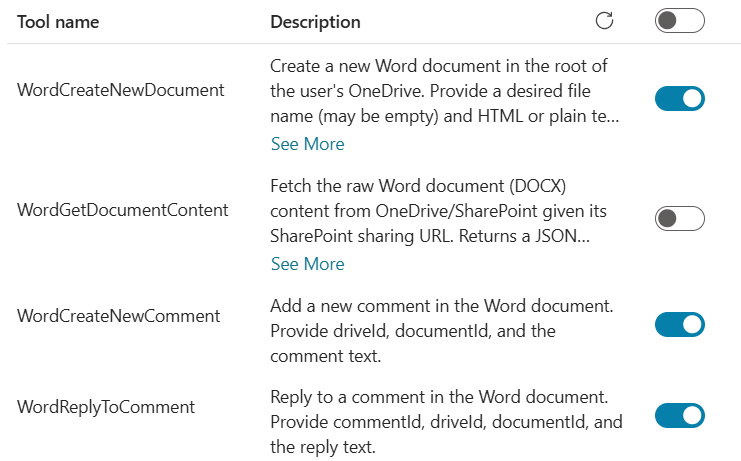
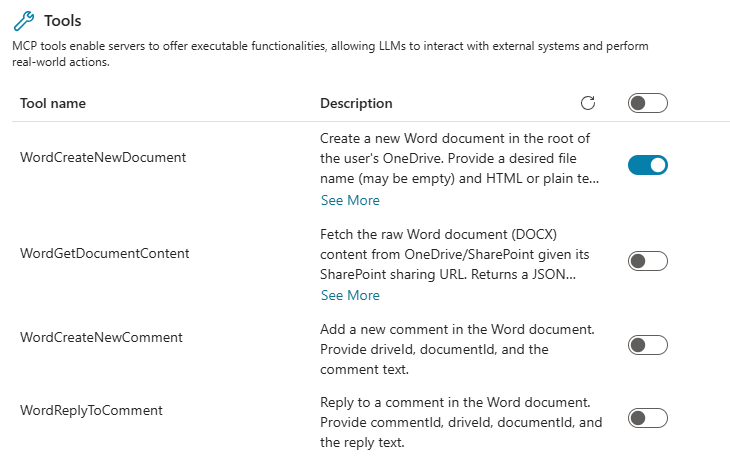
labguide2 Job Writer v2

diff --git a/docs/lv2/job-writer/lab-guide.md b/docs/lv2/job-writer/lab-guide.md
@@ -1,9 +1,41 @@
 
 # Lab Guide (Job Writer · v2)
 
-## Prima Configurazione
+## Prerequisiti
 
-Navigare all'interno di [Copilot Studio](https://copilotstudio.microsoft.com/) e selezionare **Agents**  situato nel menù laterale a sinistra, premere **+ Create blank agent**.
+### Setup Copilot Studio
+
+Copilot Studio è contenuto all'interno di Microsoft 365, per cui come prima cosa è necessario essere in possesso di un valido account Microsoft 365.
+
+Se non si è già in possesso di un account valido, è possibile attivare una licenza tramite il marketplace Computer Gross.  Eventualmente, solo per tenant di prova è possibile navigare alla pagina [Piani e prezzi di Microsoft 365 per aziende | Microsoft 365](https://www.microsoft.com/it-it/microsoft-365/business/microsoft-365-plans-and-pricing) ed attivare una licenza gratuita tramite l'opzione `Prova gratuitamente`.
+
+Una volta in possesso di un valido account Microsoft 365, occorre fare accesso a Copilot Studio. E' possibile attivare una trial gratuita seguendo i seguenti passaggi:
+
+1. Navigare su [aka.ms/TryCopilotStudio](https://aka.ms/TryCopilotStudio)
+2. Inserire l'indirizzo mail dell'account Microsoft 365.
+3. Seguire il wizard fino a raggiungere `Start free trial`.
+
+??? info "Copilot Studio Trail"
+	Per maggiori informazioni sulla versione di prova ed ulteriori approfondimenti sull'attivazione di Copilot Studio, consultare la documentazione ufficiale [Get access to Copilot Studio - Microsoft Copilot Studio | Microsoft Learn](https://learn.microsoft.com/en-us/microsoft-copilot-studio/requirements-licensing-subscriptions)
+
+### Setup nuovo ambiente developer
+
+Usando lo stesso account usato nel punto precedente, è possibile attivare un piano gratuito per sviluppatori in modo da avere un ambiente sicuro e slegato dai dati aziendali, utile a fare i propri test.
+
+1. Fare login all'interno del portale https://aka.ms/PowerAppsDevPlan
+2. Inserire l'indirizzo mail utilizzato nei precedenti punti ed attivare la prova
+3. Questo genererà un ambiente con il vostro nome, che sarà possibile visualizzare in alto a destra rispetto all'interfaccia di Power Apps o Copilot Studio. Ad esempio `Mario Rossi's environment`
+
+??? note "Power Platform Environments"
+	Gli ambienti della Power Platform sono un concetto fondamentale per gestire la segmentazione dei dati ed il rilascio delle nuove applicazioni (come gli *agenti*). Il loro approfondimento è fuori dagli scopi di questa guida ma è consigliabile un approfondimento presso la documentazione ufficiale [Power Platform environments overview - Power Platform | Microsoft Learn](https://learn.microsoft.com/en-us/power-platform/admin/environments-overview).
+
+## Creazione Agente da Copilot Studio
+
+Navigare all'interno di [Copilot Studio](https://copilotstudio.microsoft.com/) e selezionare **Agents**  situato nel menù laterale a sinistra. 
+Accedendo alla sezione **Agents**, viene inizialmente proposta la schermata di configurazione conversazionale. 
+Sebbene questa modalità consenta di creare rapidamente un agente, in questa guida procederemo con una configurazione manuale; per questo motivo, selezionare l’opzione `Create blank agent` disponibile nella parte superiore della pagina.
+
+![Provisioning](assets/JobWriterv2-Provisioning.png)
 
 Finito il provisioning dell'agente modificare **Nome** e **Descrizione**:
 
@@ -14,13 +46,14 @@ Job Writer (v2)
 
 - **Descrizione**:
 ```
-Esperto di annunci di lavoro
+Agente incaricato di redigere annunci di lavoro tramite template aziendale e generare l’output direttamente in formato Word.
 ```
 
 Lasciare le istruzioni vuote per il momento e proseguire con la guida.
 
-## Creazione del Topic
+## Creazione del Topic *New Job Posting*
 
+Lo scopo è guidare la conversazione durante la creazione di ticket per garantire un output migliore e conforme al template aziendale, andando a raccogliere alcuni dati di input.
 Nella pagina dell'agente andare nella sezione  **Topics** e selezionare **Add a topic** → **From blank**.
 
 ![Topic1](assets/JobWriterv2-Topic1.png)
@@ -35,7 +68,6 @@ Questo strumento può gestire richieste come queste: nuovo annuncio di lavoro(jo
 ```
 
 ![Topic2](assets/JobWriterv2-Topic2.png)
-## Creare le variabili di input nel Topic
 
 Andare su `Details` aggiungere le seguenti variabili di input:
 
@@ -67,9 +99,15 @@ Livello di esperienza normalizzato in Junior | Mid | Senior (mappatura: entry/gr
 
 Queste variabili saranno utilizzate per popolare il template e la Prompt Action.
 
-## Creare la Prompt Action
+## Creazione della Prompt Action
 
- Sotto al trigger premere `Add node`, selezionare `Add a tool` e poi premere su `New Prompt`.
+Dopo aver configurato gli input come descritti nello step precedente, non resta che creare la Prompt Action con il template.
+Sotto al trigger premere `Add node`, selezionare `Add a tool` e poi premere su `New Prompt`.
+
+Apparirà una schermata dove inserire per la scrittura del Prompt, che risulteà simile al box delle istruzioni. 
+Come prima cosa rinominare il Prompt: `Job Posting - Zava`
+
+Successivamente copiare e incollare il seguente prompt:
 
 ```
 ## RUOLO
@@ -275,25 +313,28 @@ Unisciti a Zava S.p.A. – Potenziamo le imprese con Cloud & AI
 - In caso di incertezza, generare suggerimenti di massima ma contrassegnarli come “(suggerito)”.
 ```
 
-Copiare e incollare il prompt, successivamente aggiungere 3 variabili attraverso `add content` → `Text`  come in figura:
+Dopo ciò aggiungere 3 variabili attraverso il tasto in basso a sinistra `add content` → `Text`  come in figura:
 
 ![AddContent](assets/JobWriterv2-AddContent.png)
 
-Salvare il Prompt e tornare nel Topic aggiungerlo e configurare gli input come in figura.
+Salvare il Prompt e tornare nel **Topic**, aggiungere il tool creato premendo `Add node` →  `Add a tool`  →  `Job Posting - Zava` e configurare gli input come in figura.
 
 ![Prompt](assets/JobWriterv2-Prompt.png)
 
 Modificare la variabile di output della Prompt Action e chiamarla `OutPosting`.
-Sotto premere `Add node`  e selezionare `Send a message`.
+
+In seguito, sotto alla configurazione del prompt premere `Add node`  e selezionare `Send a message`.
+
 Come contenuto inserire la seguente  Formula PowerFx:
 
 ```
 Topic.OutPosting.text
 ```
 
-Salvare il topic.
+In fine, salvare il topic.
 ## Model Context Protocol
  
+Per poter inserire l'annuncio direttamente in un file word senza perdere la fromattazione o il design presente in chat è necessario aggiungere un nuovo tool all'agente.
 Andare su Tools e premere `Add a tool`, selezionare `Model Context Protocol` e successivamente `Microsoft Word MCP`.
 
 Rinominarlo `Job Posting to Word` e abilitare soltanto le seguenti funzioni:
@@ -365,6 +406,7 @@ Dopo aver raccolto i dati:
 ```
 
 Inserire come in figura tramite lo `/` il Topic dove è presente.
+Questo punto è cruciale per garantire il corretto flusso della conversazione.
 
 ![Istruzioni1](assets/JobWriterv2-Istruzioni1.png)
 ![Istruzioni2](assets/JobWriterv2-Istruzioni2.png)

diff --git a/docs/lv1/job-writer/index.md b/docs/lv1/job-writer/index.md
@@ -58,5 +58,6 @@ Questo approccio permette di:
 4. Genera l'annuncio in formato coerente e pronto per l’uso  
 
 ![Esempio 2](assets/JobWriterv1-Esempio2.png)
+
 ## Get started
 → **[Apri la guida tecnica](lab-guide.md)**
